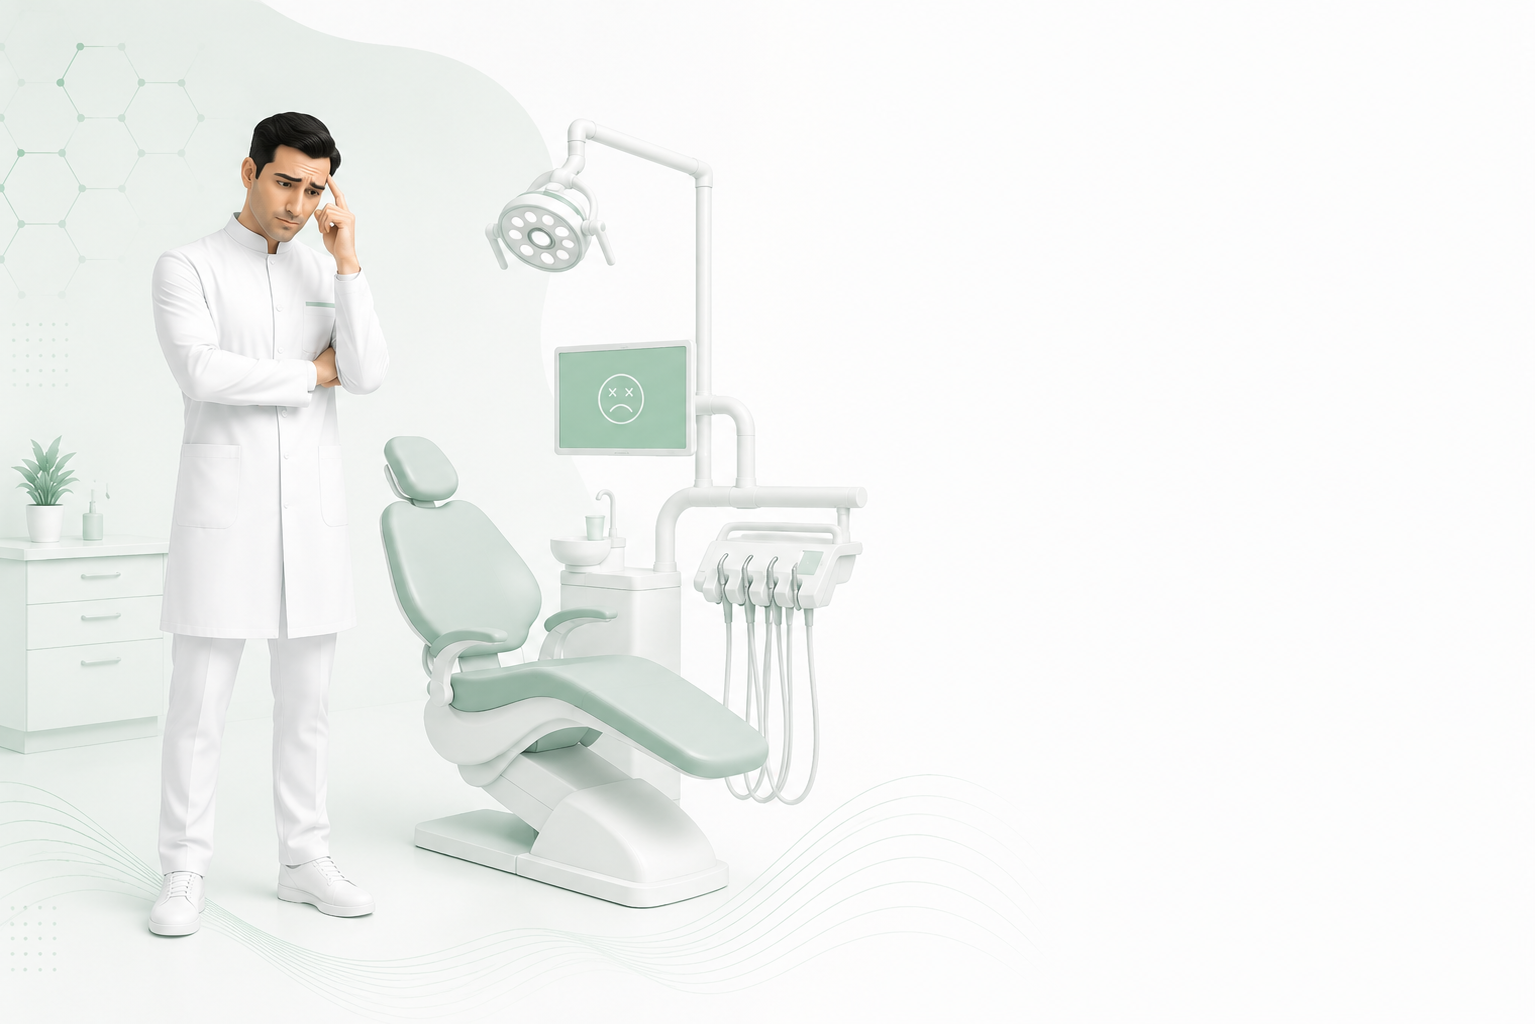
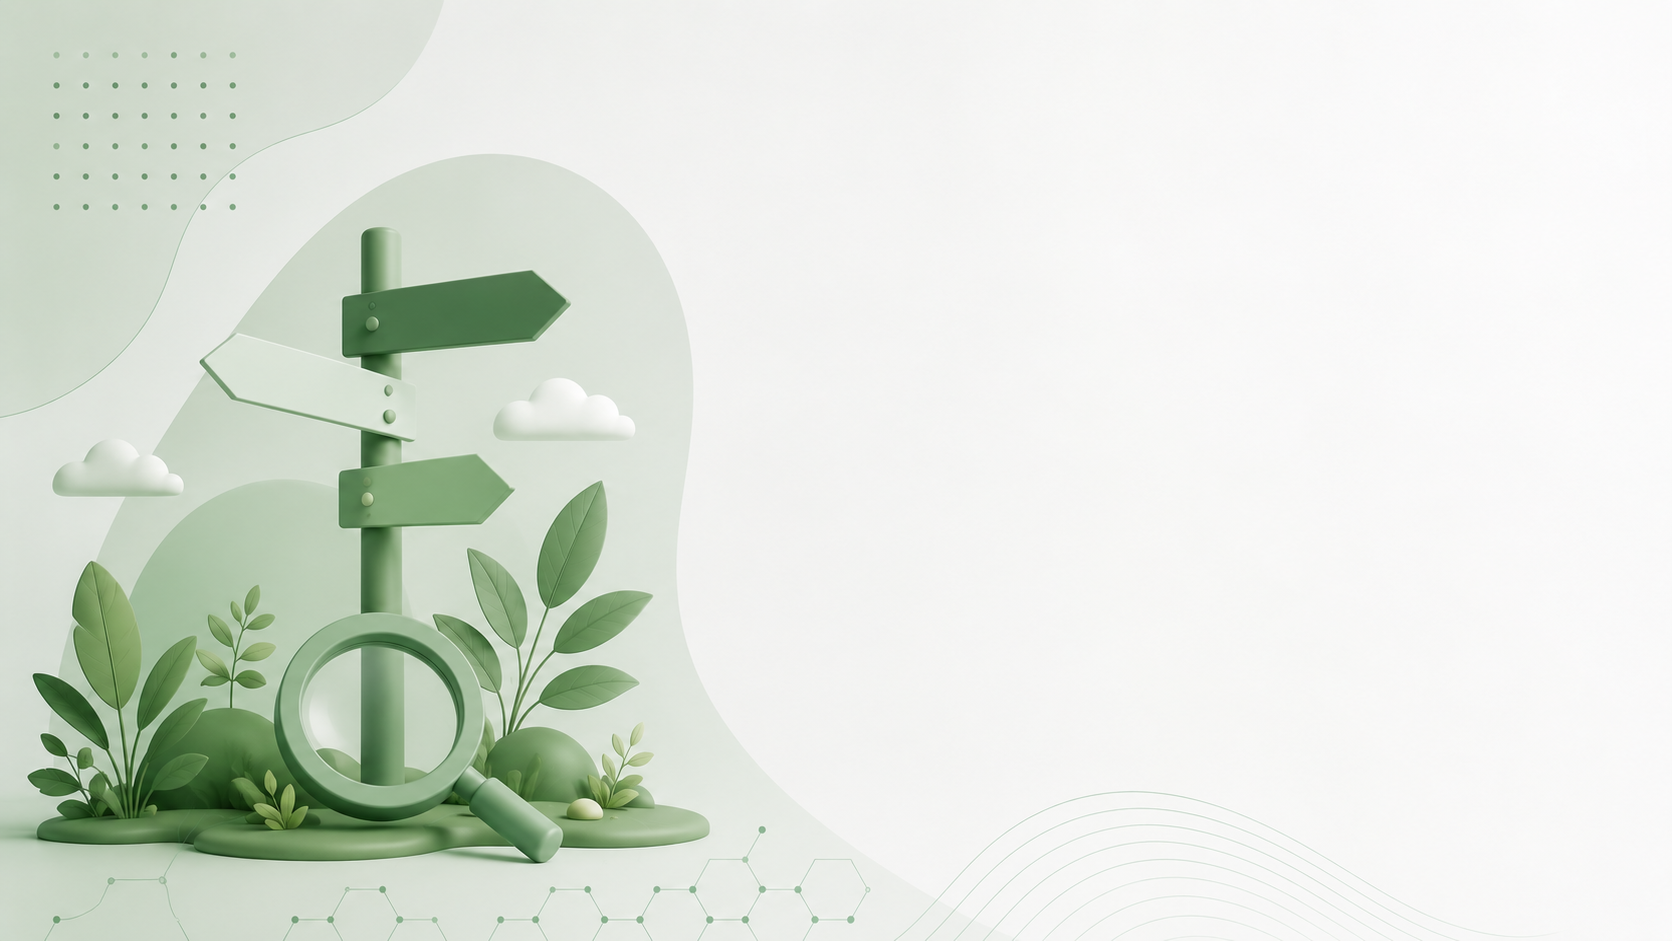
fix: imagens de fundo (login e tela de erro) não cortam mais em telas largas
Ambas ajustavam por "cover"/"contain" de um jeito que dependia da relação
entre o aspecto da imagem e o da tela: login cortava em cima/embaixo, tela
de erro sobrava faixa vazia com emenda visível. Agora as duas ajustam pelo
eixo que garante 0% de corte de conteúdo relevante, escondendo a sobra só
na área já vazia da própria imagem — com cor de fallback batendo o tom da
borda pra não ter emenda.

diff --git a/src/components/ErrorBoundary/ErrorBoundary.module.scss b/src/components/ErrorBoundary/ErrorBoundary.module.scss
@@ -9,7 +9,7 @@
   min-height: 100vh;
   padding: clamp($sp-5, 6vw, 96px);
   overflow: hidden;
-  background: #eef3f0;   // casa com o fundo claro da ilustração (sem emenda)
+  background: $error-bg-fallback;   // casa com a borda clara da ilustração (sem emenda)
 
   @include mobile {
     justify-content: center;
@@ -18,22 +18,25 @@
   }
 }
 
-// Imagem ENCAIXADA na tela: `contain` mostra a ilustração inteira, sem cortar
-// nem ampliar demais (o corte no topo vinha do `cover`). Fica à esquerda, com o
-// fundo claro (que combina com a arte) preenchendo a sobra à direita — onde o
-// texto se apoia.
+// Ajustada pela ALTURA (não `contain`): `contain` limitava pela LARGURA em
+// quase toda tela (a ilustração é mais larga que a maioria dos monitores),
+// sobrando uma faixa vazia em cima/embaixo com emenda visível. Com altura
+// 100% + largura automática, a arte preenche a tela toda sem faixa — o que
+// eventualmente sobra (tela ultrawide) é cortado à DIREITA pelo `overflow:
+// hidden` do .page, área que já é vazia na própria imagem.
 .image {
   position: absolute;
-  inset: 0;
-  width: 100%;
+  top: 0;
+  left: 0;
   height: 100%;
-  object-fit: contain;
-  object-position: left center;
+  width: auto;
   z-index: 0;
 
   @include mobile {
-    // No mobile a arte encaixa no topo e o texto desce (page: align-items flex-end).
-    object-position: center top;
+    // No mobile a arte encaixa na LARGURA (deitada no topo) e o texto desce
+    // (page: align-items flex-end) — eixo trocado em relação ao desktop.
+    height: auto;
+    width: 100%;
   }
 }
 

diff --git a/src/components/AuthLayout/AuthLayout.module.scss b/src/components/AuthLayout/AuthLayout.module.scss
@@ -2,13 +2,25 @@
 
 // Autenticação: a imagem cobre a página inteira e o formulário é um painel
 // LATERAL colado à direita, ocupando a altura toda — a imagem fica ATRÁS dele.
+//
+// Ajustada pela ALTURA (não "cover"): "cover" estica a imagem até preencher a
+// largura toda, o que em telas mais largas que a foto (a maioria) cortava um
+// pedaço em cima/embaixo. Com altura 100% + largura automática, a foto nunca
+// é cortada; o conteúdo relevante (mesa, plantas, ícones) fica preso à
+// ESQUERDA, e o vão que sobrar à direita (onde o formulário flutua por cima)
+// cai bem perto da borda quase-branca da própria foto — por isso o fallback
+// $login-bg-fallback, não uma cor de tema.
 .page {
   display: flex;
   align-items: stretch;
   justify-content: flex-end;
   width: 100%;
   min-height: 100vh;
-  background: url('../../assets/images/login.bg.png') center / cover no-repeat;
+  background-color: $login-bg-fallback;
+  background-image: url('../../assets/images/login.bg.png');
+  background-position: left center;
+  background-size: auto 100%;
+  background-repeat: no-repeat;
 }
 
 .painel {

diff --git a/src/styles/_tokens.scss b/src/styles/_tokens.scss
@@ -19,6 +19,16 @@ $secondary-rgb:     139, 92, 246;
 $accent:            #A855F7;   // roxo vivo (realces pontuais)
 $accent-rgb:        168, 85, 247;
 
+// Tom da borda direita (quase-branca) de login.bg.png — preenche o vão que
+// sobra quando a imagem é ajustada por ALTURA (sem cortar), não por "cover"
+// (ver AuthLayout.module.scss). Mesmo em qualquer tema: é a cor da FOTO, não
+// de uma superfície de UI.
+$login-bg-fallback: #f0eeeb;
+
+// Mesma ideia, mas pra ilustração de error.png (ErrorBoundary) — a borda
+// direita dela (onde o texto/botão flutuam) é quase branca.
+$error-bg-fallback: #f9f9fa;
+
 // ── Status ───────────────────────────────────────────────────────────────────
 $success:           #10B981;
 $warning:           #F59E0B;
